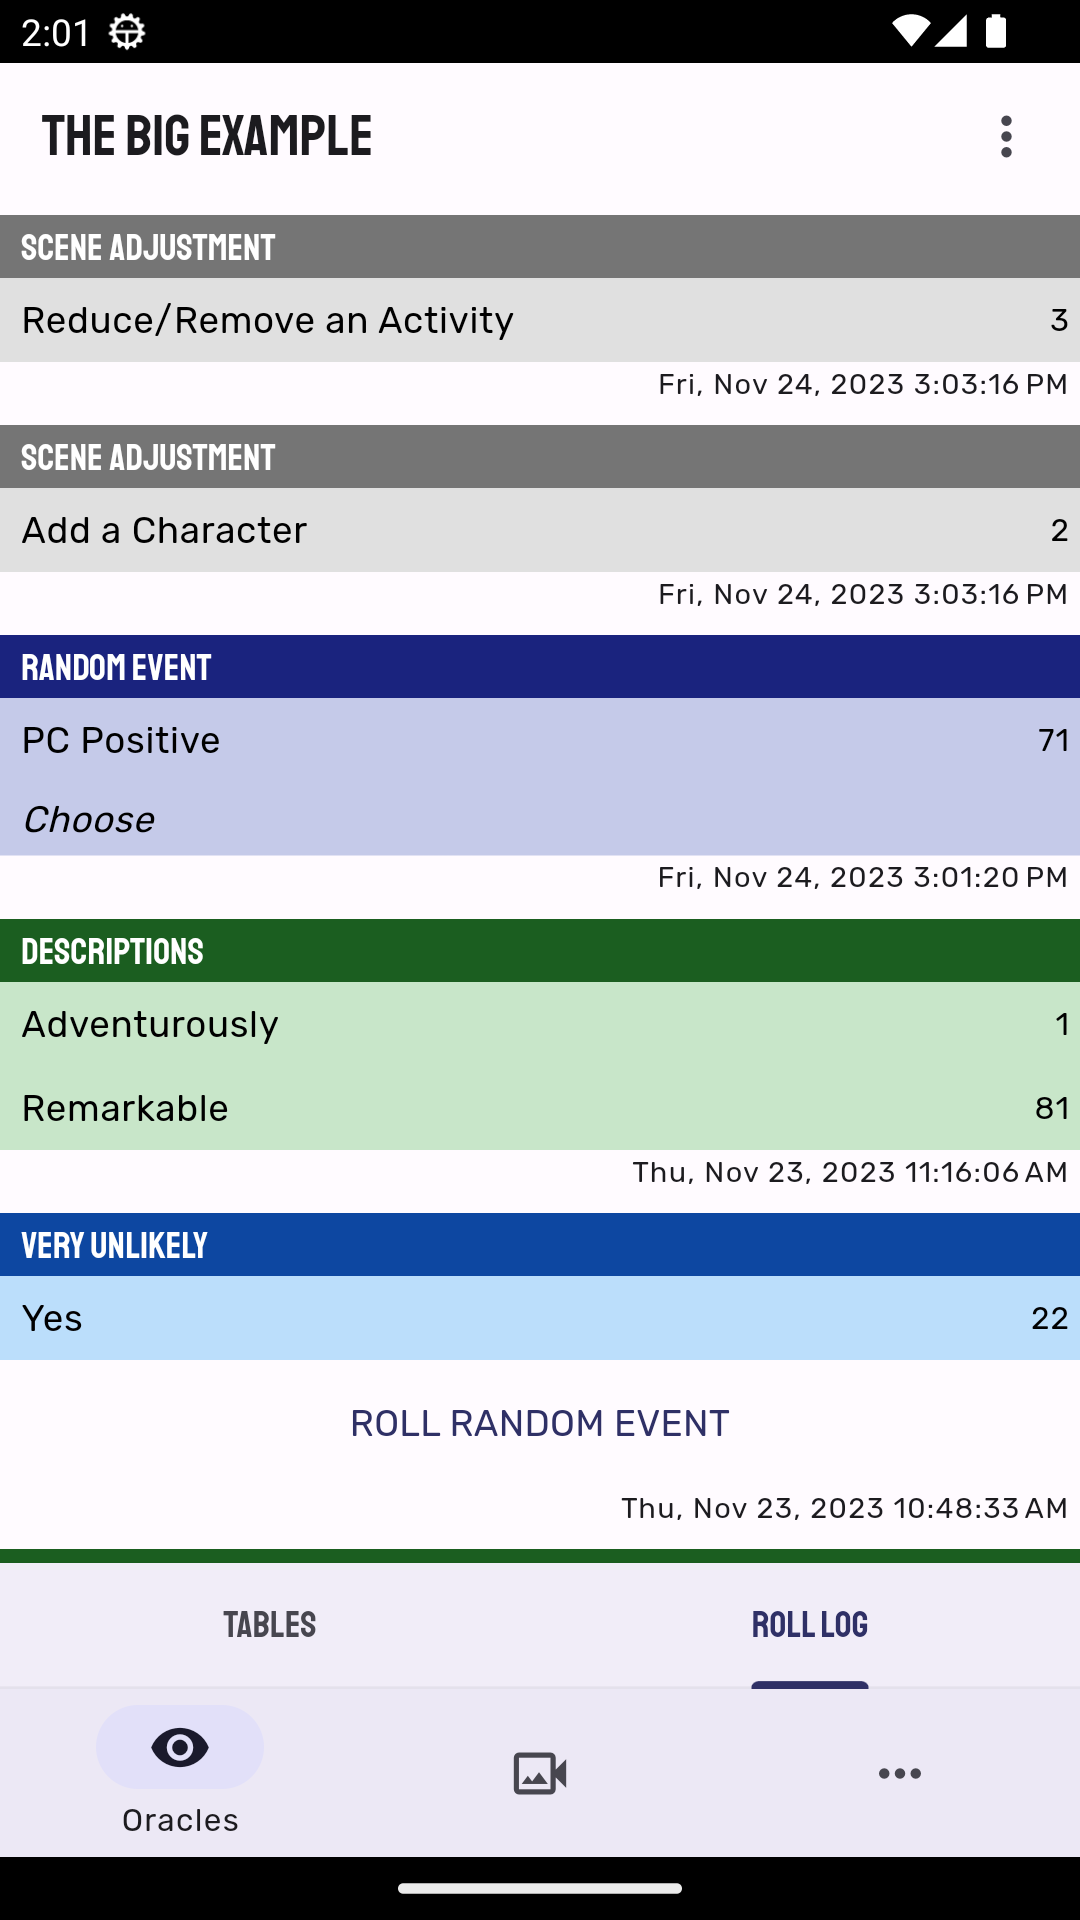
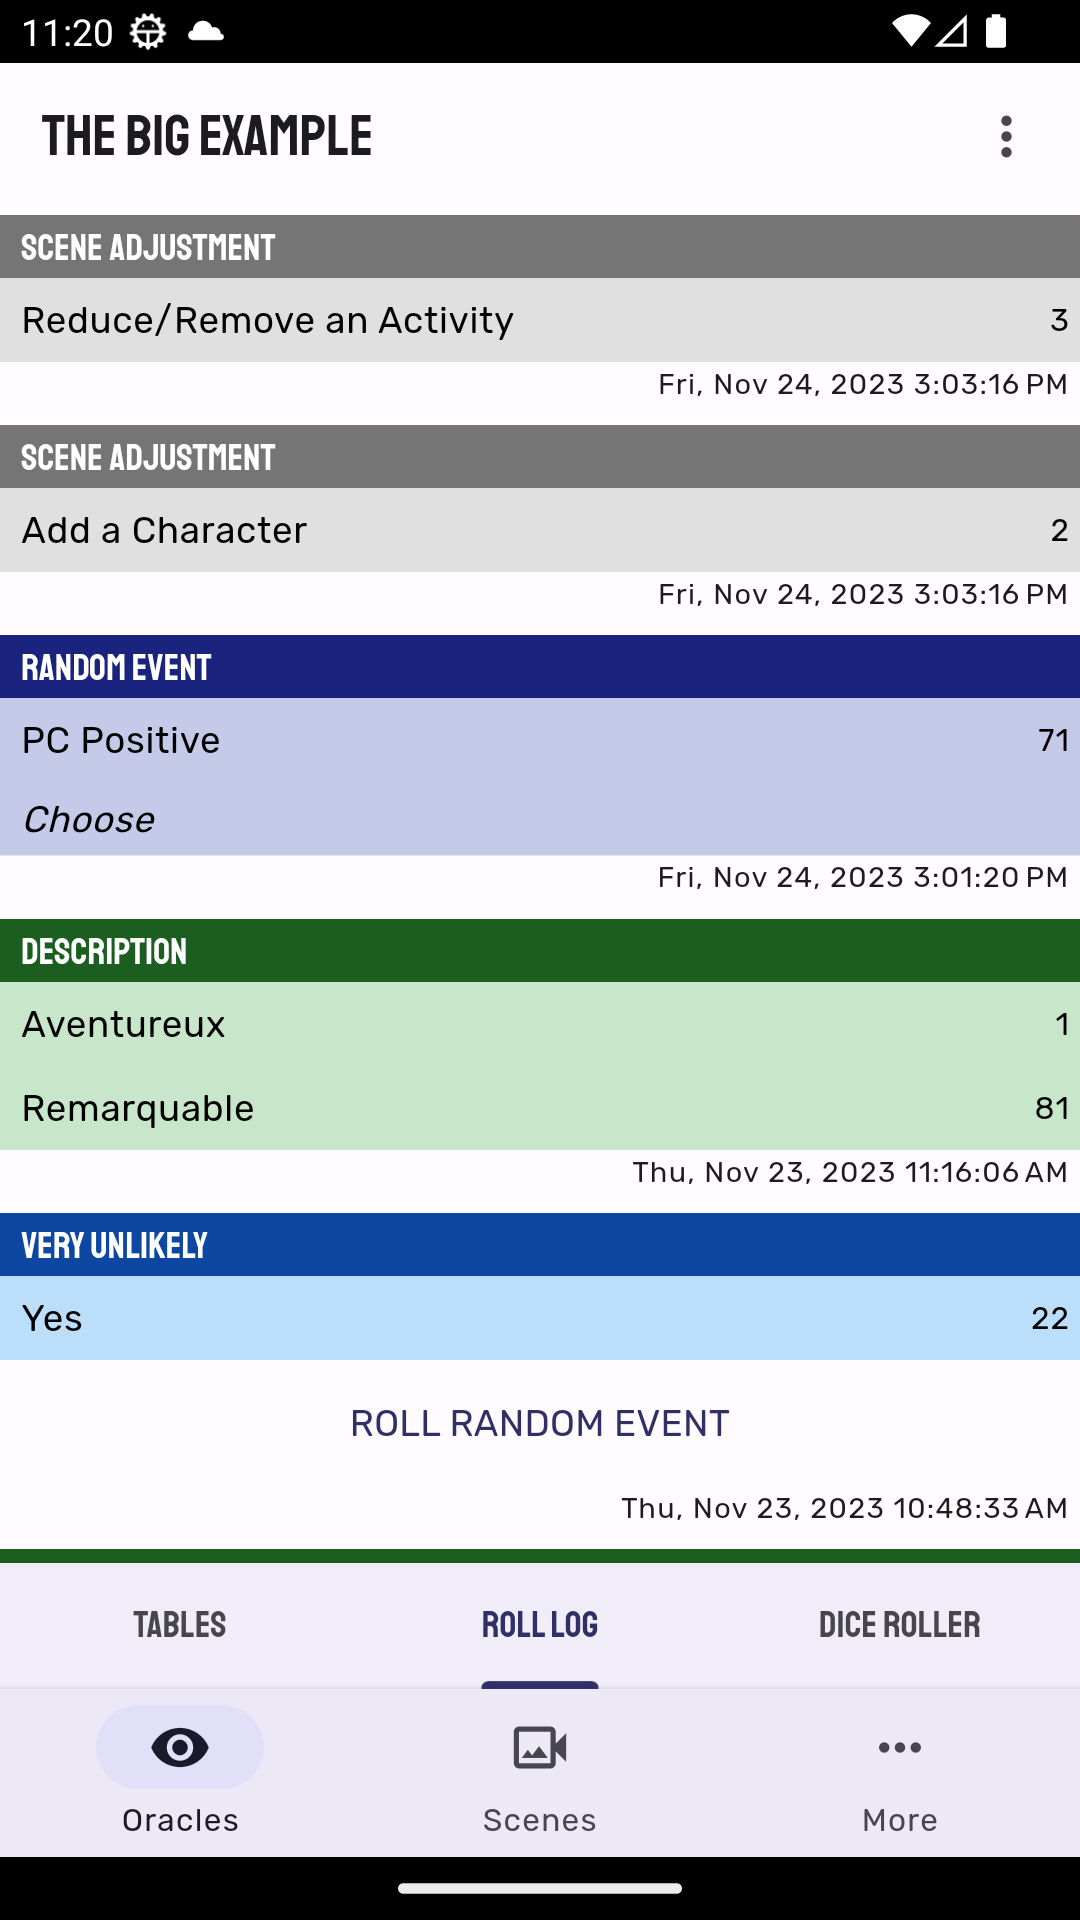
doc

diff --git a/lib/ui/adventure_index/adventure_index_view.dart b/lib/ui/adventure_index/adventure_index_view.dart
@@ -268,9 +268,11 @@ class AdventureIndexView extends GetView<AdventureIndexController> {
                 child: ConstrainedBox(
                   constraints: const BoxConstraints(
                     maxWidth: 400,
-                    maxHeight: 600,
                   ),
-                  child: content,
+                  child: Padding(
+                    padding: const EdgeInsets.symmetric(vertical: 16.0),
+                    child: content,
+                  ),
                 ),
               );
             }

diff --git a/docs/index.md b/docs/index.md
@@ -11,16 +11,21 @@ Features:
 - Threads and Characters lists
 - Thread progress track and Discovery questions
 - Scenes with Adjustments
+- Basic dice roller
 - Save on Google Drive: you can share your adventures between your devices
 - Works offline
 - Export your adventure to a text file: you can format it properly in your text editor of choice.
 
-Available on Windows and Android (COMING SOON, hopefully in January 2024).
+Available on [Windows](https://github.com/idispatch75/mythic-gme-adventures/releases) and [Android](https://play.google.com/store/apps/details?id=idispatch.mythic_gme_adventures).
+
+[<img alt='Get it on Google Play' height="80" src='https://play.google.com/intl/en_us/badges/static/images/badges/en_badge_web_generic.png'/>](https://play.google.com/store/apps/details?id=idispatch.mythic_gme_adventures)
+
 
 [![Desktop](img/desktop.png)](img/desktop.png)
 
 <img src="img/mobile_meaning_tables.png" alt="Mobile - Meaning Tables" width="365" height="auto" style="border: 1px solid black" />
-<img src="img/mobile_roll_log.png" alt="Mobile - Roll log" width="365" height="auto" style="border: 1px solid black" />
+<img src="img/mobile_roll_log.png" alt="Mobile - Roll Log" width="365" height="auto" style="border: 1px solid black" />
+<img src="img/mobile_dice_roller.png" alt="Mobile - Dice Roller" width="365" height="auto" style="border: 1px solid black" />
 
 <img src="img/mobile_threads.png" alt="Mobile - Threads List" width="365" height="auto" style="border: 1px solid black" />
 <img src="img/mobile_scenes.png" alt="Mobile - Scenes" width="365" height="auto" style="border: 1px solid black" />
